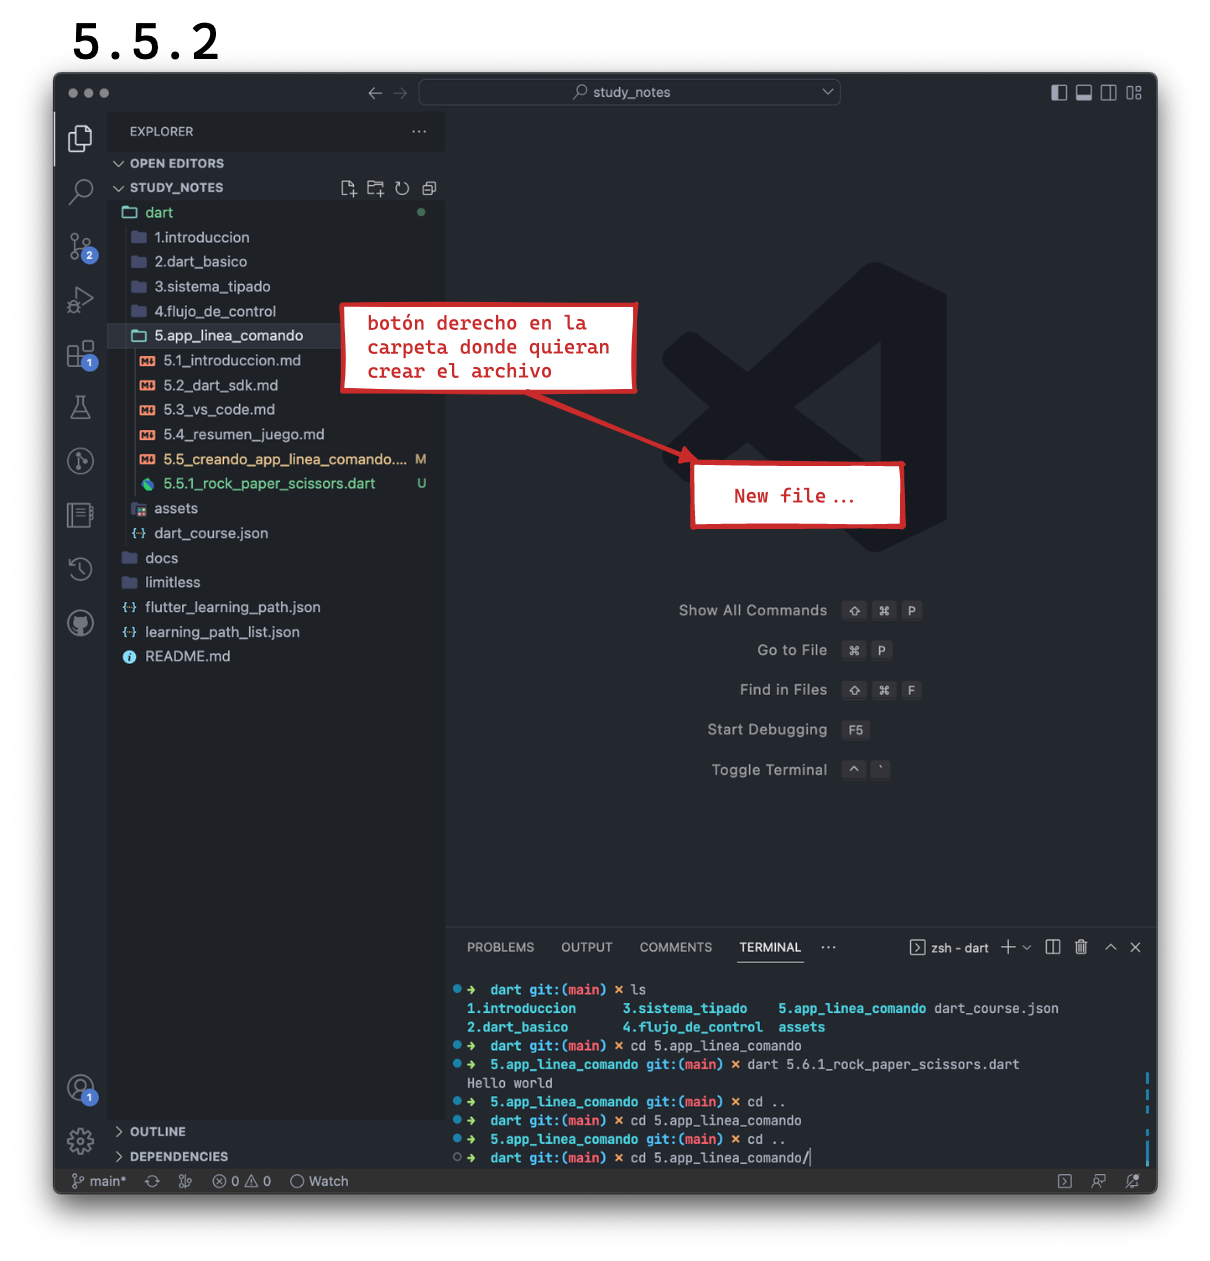
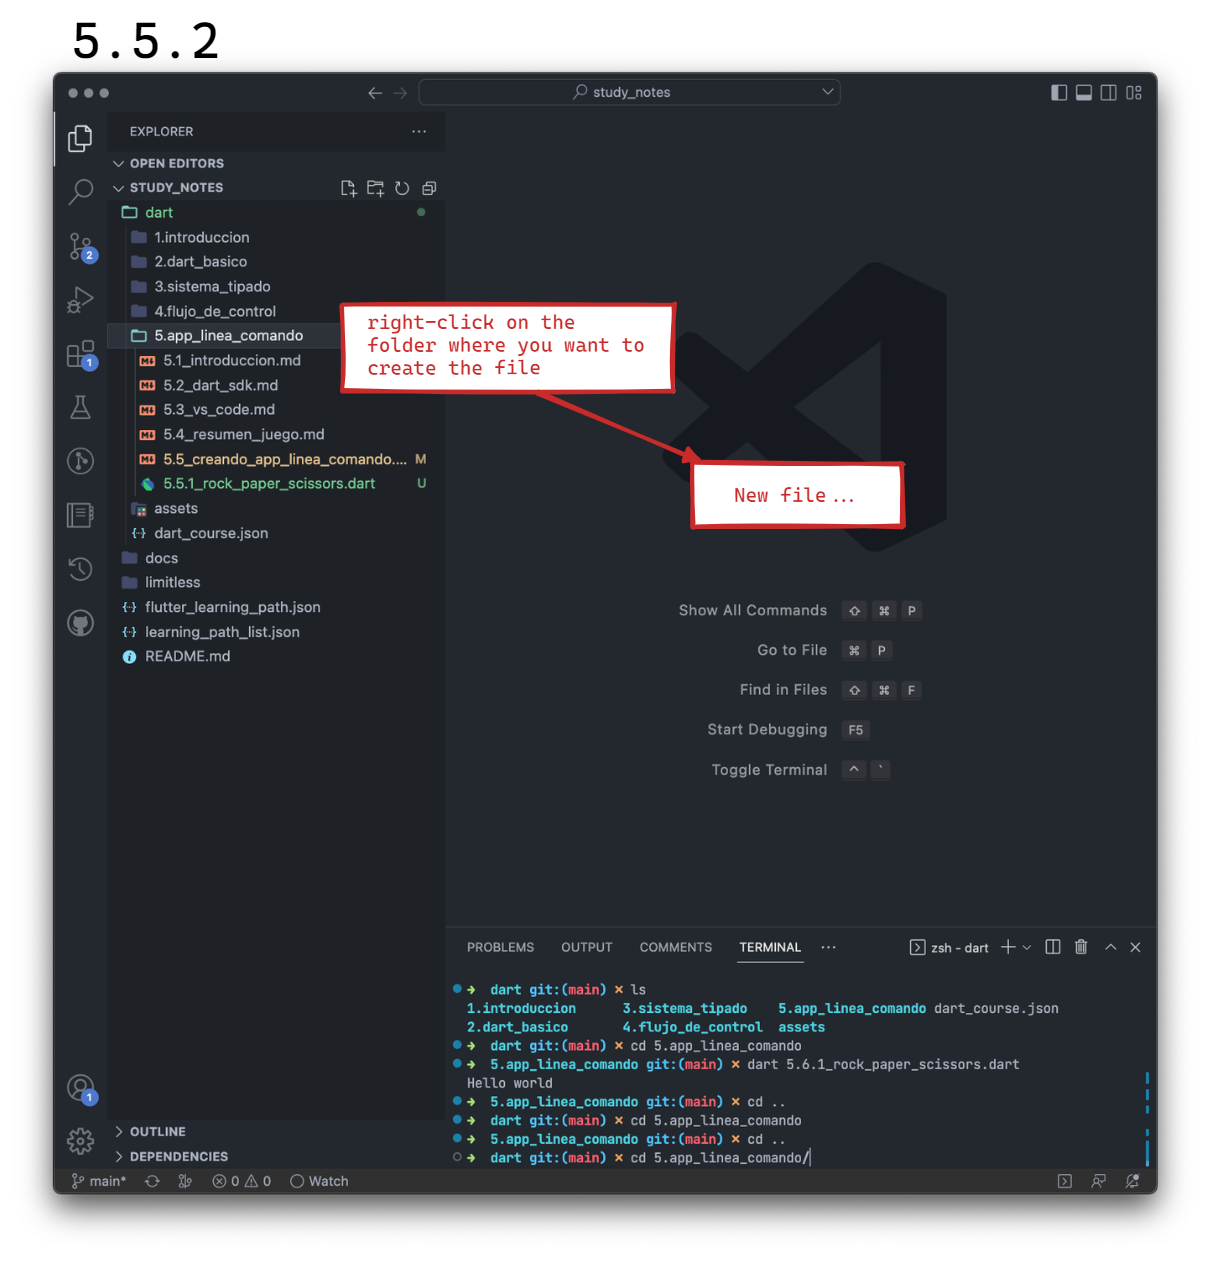
Translate article 5, section 5

Changed region(s): [[0.3058, 0.2165, 0.581, 0.3402], [0.6116, 0.3711, 0.6727, 0.4021], [0.5198, 0.3402, 0.581, 0.3711]]

diff --git a/dart/5.App_linea_comando/5_Creating_a_command_line_app.md b/dart/5.App_linea_comando/5_Creating_a_command_line_app.md
@@ -1,0 +1,48 @@
+# Creating a command line app
+
+The first thing we have to do is to initialize the terminal and there create a directory where you are going to host all your exercises. Here we are going to be creating the exercises inside the folder of each section.
+
+To create a folder in the terminal, we type `mkdir` (_make directory_), a space and the name of the folder. For example `mkdir dart_exercises`.
+
+To enter the folder use the `cd` command, a space and the folder name. You can start by typing the first character of the folder and then the _tab_ key to complete the name if there is only one folder with a name starting with that character. Otherwise, you can continue typing until you find the match and finally _enter_ to enter. In this case it would be: `cd 5.command_line_app`.
+
+There, we type `code .` and that should open a new instance/window of VS Code. If this does not happen, it may be that you have not added VS Code to your path. To do this:
+
+1. Open an instance of VS Code as you would regularly do.
+2. Press `shift + cmd/ctrl + p` and type 'shell command' and select the option that says 'Install code command in PATH'.
+3. Close VS Code.
+
+From now on, you will be able to open VS Code by typing `code` from your terminal. In our case, as we want to open an instance of VS Code from the directory where we were standing, we write `code` and after the space, a `.`, which refers to the directory where we are.
+
+Once there, we will create our first _file_:
+
+![Creando el archivo](https://raw.githubusercontent.com/themonkslab/courses/main/dart/5.app_linea_comando/5.2.crear_archivo_1.png)
+![Nombrando el archivo](https://raw.githubusercontent.com/themonkslab/courses/main/dart/5.app_linea_comando/5.3.crear_archivo_2.png)
+
+Once in your brand new first command line program, enter a `print` to say hello to everyone!
+
+```dart
+void main() {
+    print('Hello world!');
+}
+```
+
+That's it, we have our first program! Now... how do you run it? ✋ Wait! Did you save it? Because if you didn't save it, you'll get all sorts of strange results! 😂
+
+...
+
+...
+
+...
+
+Now yes? Well, then press the combination `cmd/ctrl + j` and the terminal will appear, otherwise, do the following:
+
+1. Move your cursor to the bottom edge
+2. When it changes to an arrow, click and hold
+3. Drag up
+
+![Abrir terminal con el cursor](https://raw.githubusercontent.com/themonkslab/courses/main/dart/5.app_linea_comando/5.4.abrir_terminal_cursor.gif)
+
+Once in the terminal, type `dart` and then the name of your program (remember you can type the first few letters and autocomplete with tab) and when you have it, hit `enter`.
+
+🥳 Yeah! You've written your first command line program!

diff --git a/dart_sp/5.App_linea_comando/5_Creando_una_app_en_línea_de_comando.md b/dart_sp/5.App_linea_comando/5_Creando_una_app_en_línea_de_comando.md
@@ -4,7 +4,7 @@ Lo primero que tenemos que hacer es inicializar la terminal y allí crear un dir
 
 Para crear una carpeta en la terminal, escribimos `mkdir` (de _make_, crear y _directory_, directorio), un espacio y el nombre de la carpeta. Por ejemplo `mkdir dart_exercises`.
 
-Para ingresar en dicha carpeta utilizan el comando `cd`, un espacio y el nombre de la carpeta. Pueden empezar escribiendo el primer caracter de dicha carpeta y luego la tecla _tab_ que les va a completar el nombre si es que hubiera una sola carpeta con un nombre que comience en dicho caracter. Sino, pueden seguir escribiendo hasta dar con la coincidencia y finalmente _enter_ para ingresar. Sería aquí: `cd 5.app_linea_comando`.
+Para ingresar en dicha carpeta utilizan el comando `cd`, un espacio y el nombre de la carpeta. Pueden empezar escribiendo el primer caracter de dicha carpeta y luego la tecla _tab_ que les va a completar el nombre si es que hubiera una sola carpeta con un nombre que comience en dicho caracter. Sino, pueden seguir escribiendo hasta dar con la coincidencia y finalmente _enter_ para ingresar. Aquí sería: `cd 5.app_linea_comando`.
 
 Allí, ingresamos `code .` y eso nos debería abrir una nueva instancia/ventana de VS Code. Si esto no sucede, puede ser que no tengan agregado VS Code a su path. Para ello:
 
